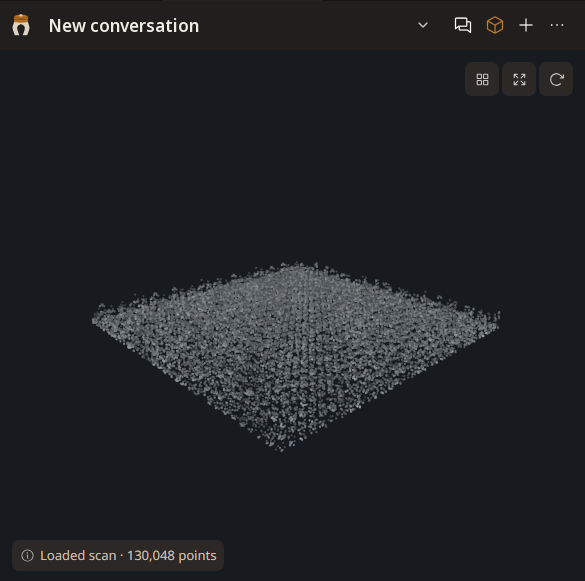
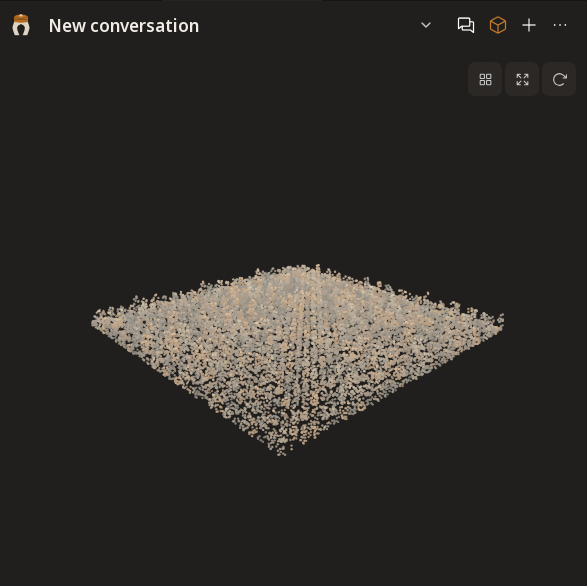
preserve active World scan and refresh preview media

diff --git a/unreal/HaybaMCPToolkit/Source/HaybaMCPToolkit/Private/HaybaMCPMainPanel.cpp b/unreal/HaybaMCPToolkit/Source/HaybaMCPToolkit/Private/HaybaMCPMainPanel.cpp
@@ -356,6 +356,9 @@ void SHaybaMCPMainPanel::ShowPanel(EHaybaPanel Panel)
     const EHaybaSection* Remembered = LastSectionByPanel.Find(Panel);
     const EHaybaSection Target = Remembered && Sections.Contains(*Remembered)
         ? *Remembered : Sections[0];
+    // Re-selecting the open view must not restart an in-progress World scan.
+    // World has an explicit refresh control when the user wants a new scan.
+    if (CurrentPanel == Panel && CurrentSection == Target && PanelCache.Contains(Target)) return;
     CurrentPanel = Panel;
     ShowSection(Target);
 }

diff --git a/README.md b/README.md
@@ -59,11 +59,9 @@ Hayba does not treat every refusal as failure. A structured refusal tells the ag
 
 ## World, from scene evidence
 
-The current preview scans loaded static meshes progressively. This animation is a real scratch-editor sequence: 120, then 288, then 328, then 1,024 synthetic actors. The final view contains 130,048 sampled points. Each point can be traced to its source; an unloaded cell is still unknown.
+The current preview progressively scans loaded static meshes. The scratch-editor capture above shows 130,048 surface samples from 1,024 synthetic actors. Each sample can be traced to its source; an unloaded cell is still unknown.
 
-![Progressive World scan in a synthetic scratch Unreal level, ending at 130,048 mesh samples](docs/media/world-scan-progress.gif)
-
-[Open a still frame](docs/media/world-mesh-splat-preview.png) · [Read the World model](docs/world-intelligence.md)
+[Open the World capture](docs/media/world-mesh-splat-preview.png) · [Read the World model](docs/world-intelligence.md)
 
 ## The next World layer
 

diff --git a/docs/media/README.md b/docs/media/README.md
@@ -1,5 +1,5 @@
 # Public demo media
 
-The Chat and World images in this directory are direct captures from a scratch Unreal Engine 5.8 project with synthetic content. The World animation joins four captures of the same progressive scan; its final frame shows 1,024 synthetic static-mesh actors and 130,048 sampled points. The animation is an interface demonstration, not a benchmark or a claim about unloaded World Partition cells.
+The Chat and World images in this directory are direct captures from a scratch Unreal Engine 5.8 project with synthetic content. The World capture shows a loaded level with 1,024 synthetic static-mesh actors and 130,048 sampled points. It is an interface demonstration, not a benchmark or a claim about unloaded World Partition cells.
 
 Public demo media should come from synthetic scratch projects. Check every frame, filename, caption, and embedded metadata before publishing. A capture from a game project must not be copied into this directory merely because the Hayba interface is visible in it.
